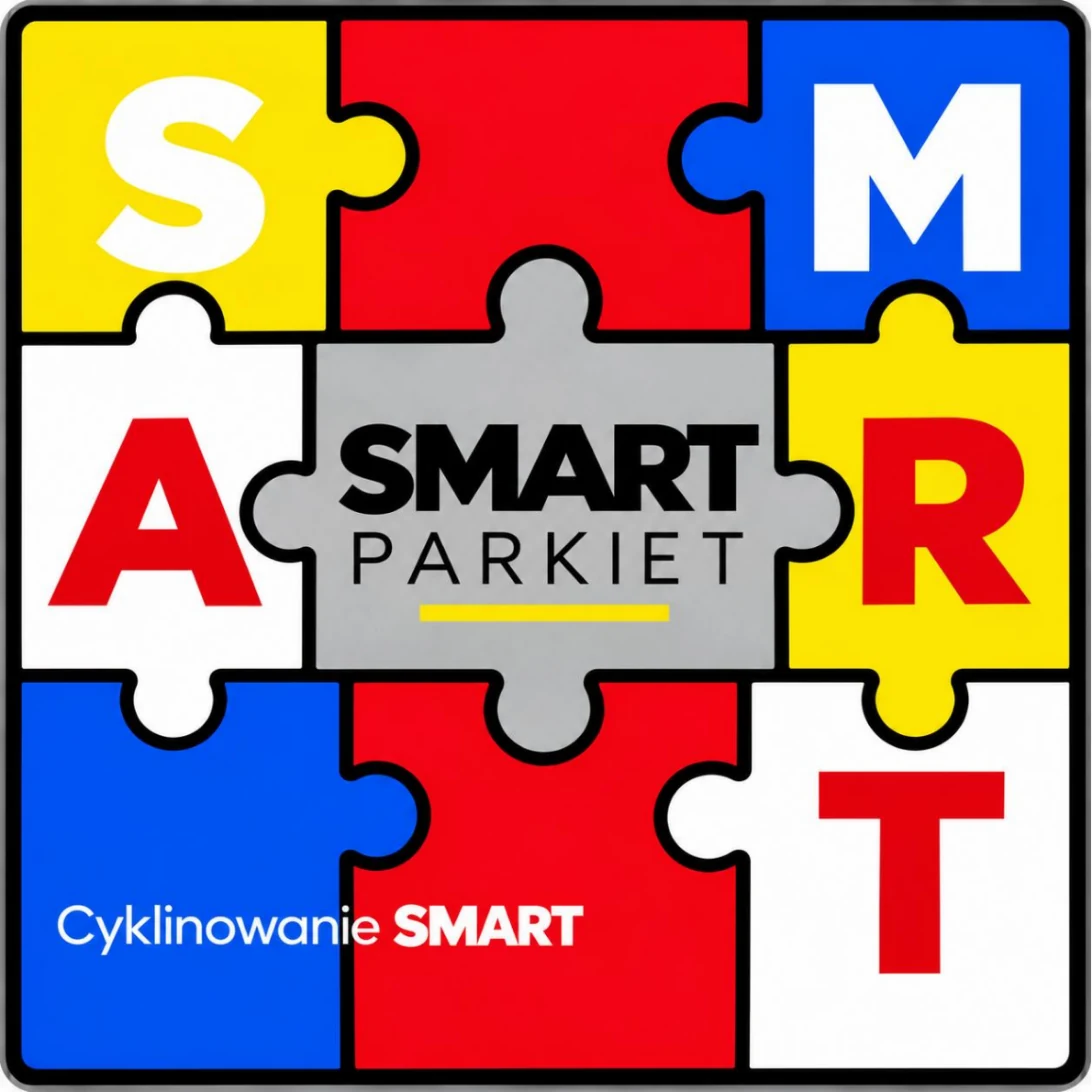
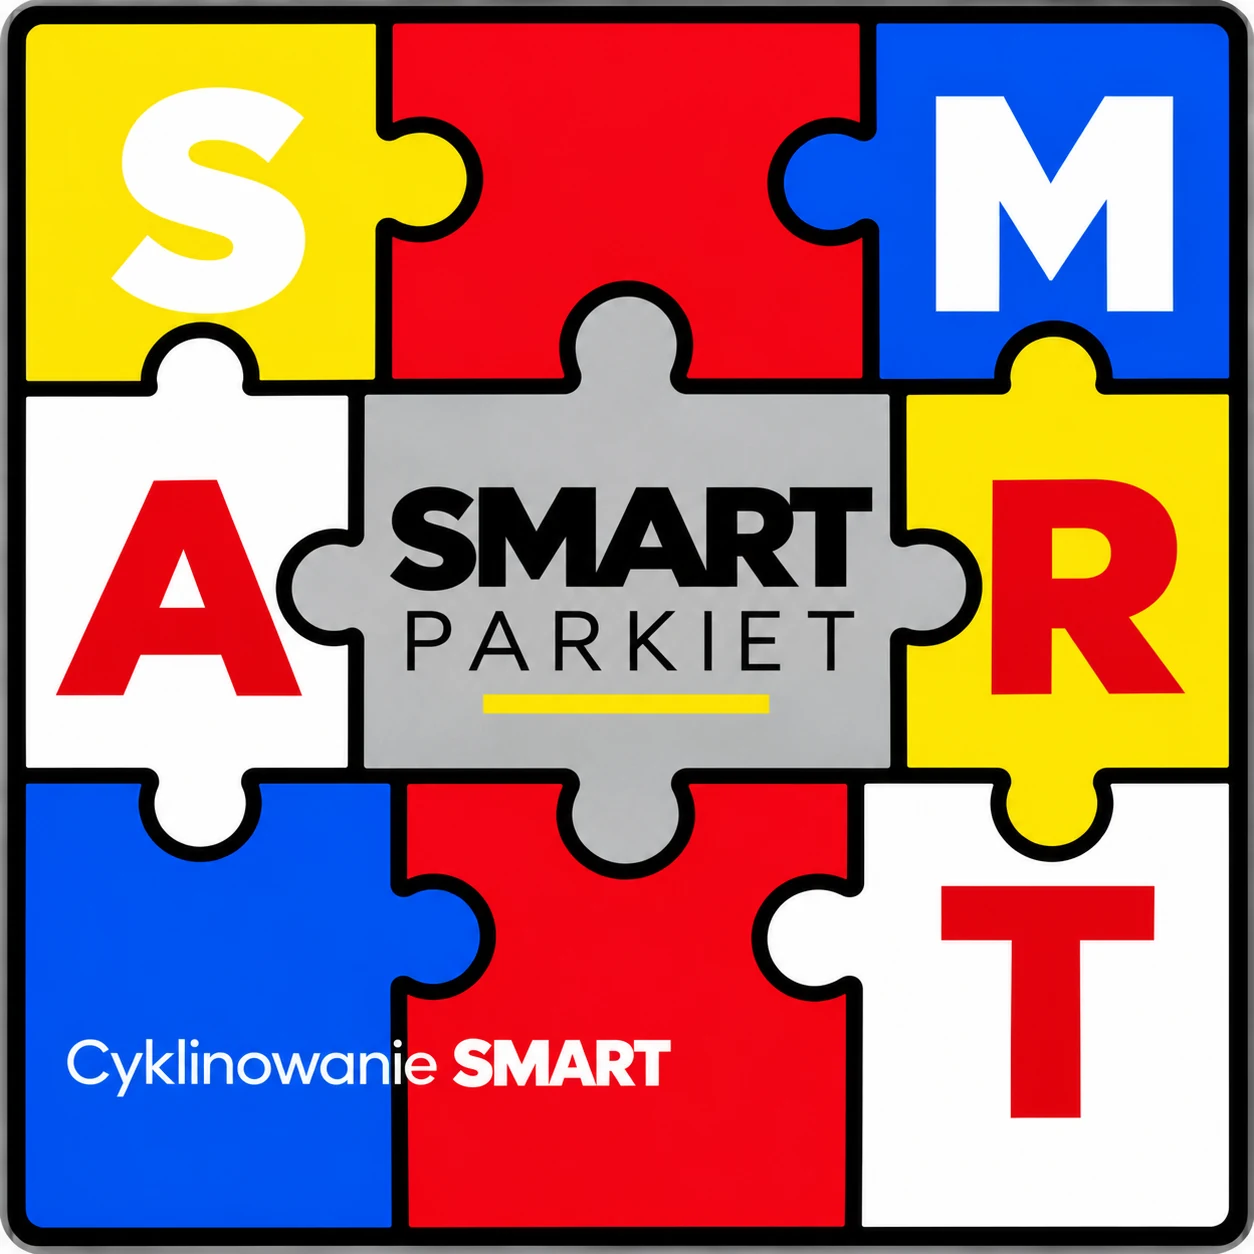
Jasniejsza infografika programow (Artur 18.10 20:18) + oryginaly pomaranczy i puzzli z maila

diff --git a/artykuly.html b/artykuly.html
@@ -954,7 +954,7 @@ figure{margin:0}
 </header>
 <section id="top" class="ar-hero" style="background-image:url(img/blog-hero-szlif.webp);background-position:62% 45%"><div class="wrap"><span class="ar-tag">Blog SMARTPARKIET</span><h1>Cyklinowanie bez tajemnic</h1><p class="ar-meta">Metoda SMART, czas prac, programy i porady przed renowacją parkietu</p></div></section>
 <section class="art-body"><div class="wrap">
-<div class="ar-siatka"><a class="ar-karta" href="smart-platinum-floor-greenstar-ceramicstar.html"><div class="im" style="background-image:url(img/platinum-salon-m.webp)"></div><div class="t"><span class="tg">Programy</span><h2>SMART PLATINUM FLOOR&trade; - najwyższy standard renowacji podłóg drewnianych</h2><p>Dwa lakiery premium Berger-Seidle: GreenStar bez izocyjanianów i CeramicStar z technologią ceramiczną, z użytkowaniem podłogi już po 12 godzinach.</p><span class="cz">Czytaj artykuł &rarr;</span></div></a><a class="ar-karta" href="tradycyjne-parkieciarstwo-w-nowoczesnym-wydaniu.html"><div class="im" style="background-image:url(img/hummel-pokoj.webp)"></div><div class="t"><span class="tg">O nas</span><h2>Tradycyjne parkieciarstwo w nowoczesnym wydaniu</h2><p>Jak SMARTPARKIET przenosi rzemiosło parkieciarskie w XXI wiek: bezpyłowy sprzęt, lakiery wodne, jasne pakiety i ceny, opieka nad klientem od zdjęcia do odbioru.</p><span class="cz">Czytaj artykuł &rarr;</span></div></a><a class="ar-karta" href="czym-jest-cyklinowanie-smart.html"><div class="im" style="background-image:url(img/hummel-logo.webp)"></div><div class="t"><span class="tg">Metoda</span><h2>Czym jest cyklinowanie SMART i czym różni się od tradycyjnego?</h2><p>Cyklinowanie SMART to bezpyłowa renowacja parkietu w 2 dni, z wyceną ze zdjęć i lakierami premium. Porównanie z tradycyjnym cyklinowaniem punkt po punkcie.</p><span class="cz">Czytaj artykuł &rarr;</span></div></a><a class="ar-karta" href="piec-filarow-metody-smart.html"><div class="im im-puzzle" style="background-image:url(img/puzzle-smart-litery.webp)"></div><div class="t"><span class="tg">Metoda</span><h2>Pięć filarów metody SMART: co kryje się za każdą literą</h2><p>S.M.A.R.T. to pięć zasad, na których opiera się cyklinowanie SMART: system pracy, metoda bezpyłowa, asysta klienta, rezultat premium i transparentność.</p><span class="cz">Czytaj artykuł &rarr;</span></div></a><a class="ar-karta" href="cyklinowanie-smart-krok-po-kroku.html"><div class="im" style="background-image:url(img/floor-po.webp)"></div><div class="t"><span class="tg">Poradnik</span><h2>Cyklinowanie SMART krok po kroku: od zdjęcia do odbioru podłogi</h2><p>Sześć etapów cyklinowania SMART: diagnoza, dobór technologii, szlif, kontrola, odpylanie i odbiór. Co dzieje się pierwszego i drugiego dnia prac.</p><span class="cz">Czytaj artykuł &rarr;</span></div></a><a class="ar-karta" href="cyklinowanie-bezpylowe-zero-dust.html"><div class="im" style="background-image:url(img/festool-sysair-hq.webp)"></div><div class="t"><span class="tg">Technologia</span><h2>Cyklinowanie bezpyłowe: czy w mieszkaniu naprawdę nie zostaje pył?</h2><p>Jak działa cyklinowanie bezpyłowe: szlifierki z odciągiem klasy M, oczyszczacze powietrza Festool i zamki pyłowe. Ile pyłu zostaje i jak przygotować mieszkanie.</p><span class="cz">Czytaj artykuł &rarr;</span></div></a><a class="ar-karta" href="ile-trwa-cyklinowanie-parkietu.html"><div class="im" style="background-image:url(img/wilanow2-po-2.webp)"></div><div class="t"><span class="tg">Czas prac</span><h2>Ile trwa cyklinowanie parkietu i kiedy można wrócić do mieszkania?</h2><p>Ile trwa cyklinowanie parkietu: 1 dzień do 20 m², 2 dni przy 50-70 m². Kiedy chodzić po lakierze, kiedy spać w pokoju i kiedy wnieść meble.</p><span class="cz">Czytaj artykuł &rarr;</span></div></a><a class="ar-karta" href="programy-renowacji-smart.html"><div class="im im-info" style="background-image:url(img/programy-smart-infografika.webp)"></div><div class="t"><span class="tg">Programy</span><h2>Programy renowacji SMART: który wybrać dla swojej podłogi?</h2><p>Przegląd programów cyklinowania SMART: PREMIUM FLOOR, nowy PLATINUM FLOOR, EXOTIC, KAMIENICA RESTORE, PUBLIC RESTORE, EXPRESS 48H i nowy SMART+ z malowaniem.</p><span class="cz">Czytaj artykuł &rarr;</span></div></a></div>
+<div class="ar-siatka"><a class="ar-karta" href="smart-platinum-floor-greenstar-ceramicstar.html"><div class="im" style="background-image:url(img/platinum-salon-m.webp)"></div><div class="t"><span class="tg">Programy</span><h2>SMART PLATINUM FLOOR&trade; - najwyższy standard renowacji podłóg drewnianych</h2><p>Dwa lakiery premium Berger-Seidle: GreenStar bez izocyjanianów i CeramicStar z technologią ceramiczną, z użytkowaniem podłogi już po 12 godzinach.</p><span class="cz">Czytaj artykuł &rarr;</span></div></a><a class="ar-karta" href="tradycyjne-parkieciarstwo-w-nowoczesnym-wydaniu.html"><div class="im" style="background-image:url(img/hummel-pokoj.webp)"></div><div class="t"><span class="tg">O nas</span><h2>Tradycyjne parkieciarstwo w nowoczesnym wydaniu</h2><p>Jak SMARTPARKIET przenosi rzemiosło parkieciarskie w XXI wiek: bezpyłowy sprzęt, lakiery wodne, jasne pakiety i ceny, opieka nad klientem od zdjęcia do odbioru.</p><span class="cz">Czytaj artykuł &rarr;</span></div></a><a class="ar-karta" href="czym-jest-cyklinowanie-smart.html"><div class="im" style="background-image:url(img/hummel-logo.webp)"></div><div class="t"><span class="tg">Metoda</span><h2>Czym jest cyklinowanie SMART i czym różni się od tradycyjnego?</h2><p>Cyklinowanie SMART to bezpyłowa renowacja parkietu w 2 dni, z wyceną ze zdjęć i lakierami premium. Porównanie z tradycyjnym cyklinowaniem punkt po punkcie.</p><span class="cz">Czytaj artykuł &rarr;</span></div></a><a class="ar-karta" href="piec-filarow-metody-smart.html"><div class="im im-puzzle" style="background-image:url(img/puzzle-smart-litery.webp?v=2)"></div><div class="t"><span class="tg">Metoda</span><h2>Pięć filarów metody SMART: co kryje się za każdą literą</h2><p>S.M.A.R.T. to pięć zasad, na których opiera się cyklinowanie SMART: system pracy, metoda bezpyłowa, asysta klienta, rezultat premium i transparentność.</p><span class="cz">Czytaj artykuł &rarr;</span></div></a><a class="ar-karta" href="cyklinowanie-smart-krok-po-kroku.html"><div class="im" style="background-image:url(img/floor-po.webp)"></div><div class="t"><span class="tg">Poradnik</span><h2>Cyklinowanie SMART krok po kroku: od zdjęcia do odbioru podłogi</h2><p>Sześć etapów cyklinowania SMART: diagnoza, dobór technologii, szlif, kontrola, odpylanie i odbiór. Co dzieje się pierwszego i drugiego dnia prac.</p><span class="cz">Czytaj artykuł &rarr;</span></div></a><a class="ar-karta" href="cyklinowanie-bezpylowe-zero-dust.html"><div class="im" style="background-image:url(img/festool-sysair-hq.webp)"></div><div class="t"><span class="tg">Technologia</span><h2>Cyklinowanie bezpyłowe: czy w mieszkaniu naprawdę nie zostaje pył?</h2><p>Jak działa cyklinowanie bezpyłowe: szlifierki z odciągiem klasy M, oczyszczacze powietrza Festool i zamki pyłowe. Ile pyłu zostaje i jak przygotować mieszkanie.</p><span class="cz">Czytaj artykuł &rarr;</span></div></a><a class="ar-karta" href="ile-trwa-cyklinowanie-parkietu.html"><div class="im" style="background-image:url(img/wilanow2-po-2.webp)"></div><div class="t"><span class="tg">Czas prac</span><h2>Ile trwa cyklinowanie parkietu i kiedy można wrócić do mieszkania?</h2><p>Ile trwa cyklinowanie parkietu: 1 dzień do 20 m², 2 dni przy 50-70 m². Kiedy chodzić po lakierze, kiedy spać w pokoju i kiedy wnieść meble.</p><span class="cz">Czytaj artykuł &rarr;</span></div></a><a class="ar-karta" href="programy-renowacji-smart.html"><div class="im im-info" style="background-image:url(img/programy-smart-infografika.webp?v=2)"></div><div class="t"><span class="tg">Programy</span><h2>Programy renowacji SMART: który wybrać dla swojej podłogi?</h2><p>Przegląd programów cyklinowania SMART: PREMIUM FLOOR, nowy PLATINUM FLOOR, EXOTIC, KAMIENICA RESTORE, PUBLIC RESTORE, EXPRESS 48H i nowy SMART+ z malowaniem.</p><span class="cz">Czytaj artykuł &rarr;</span></div></a></div>
 <p class="ar-sekcja">Poradniki</p>
 <div class="ar-siatka"><a class="ar-karta" href="co-najpierw-cyklinowanie-podlogi-czy-malowanie-scian.html"><div class="im" style="background-image:url(img/malowanie-sciany.webp)"></div><div class="t"><span class="tg">Kolejność prac</span><h3>Co najpierw: cyklinowanie podłogi czy malowanie ścian?</h3><p>Najpierw podłoga, ściany na końcu. Po ilu dniach malarz może wejść na świeży lakier.</p><span class="cz">Czytaj artykuł &rarr;</span></div></a><a class="ar-karta" href="jaki-lakier-do-parkietu-po-cyklinowaniu.html"><div class="im" style="background-image:url(img/lakier-walek.webp)"></div><div class="t"><span class="tg">Wykończenie</span><h3>Jaki lakier do parkietu po cyklinowaniu?</h3><p>Lakier wodny, rozpuszczalnikowy i olej twardy w jednej tabeli.</p><span class="cz">Czytaj artykuł &rarr;</span></div></a><a class="ar-karta" href="czy-subit-pod-parkietem-jest-szkodliwy.html"><div class="im" style="background-image:url(img/subit-parkiet.webp)"></div><div class="t"><span class="tg">Stare podłogi</span><h3>Czy subit pod parkietem jest szkodliwy?</h3><p>Czarny lepik z czasów PRL. Kiedy go nie ruszamy i co to zmienia w wycenie.</p><span class="cz">Czytaj artykuł &rarr;</span></div></a><a class="ar-karta" href="naprawa-punktowa-parkietu-kiedy-jest-mozliwa.html"><div class="im" style="background-image:url(img/plama-pod-dywanem.webp)"></div><div class="t"><span class="tg">Naprawy</span><h3>Naprawa punktowa parkietu - kiedy jest możliwa?</h3><p>Decyduje rodzaj wykończenia, nie wielkość uszkodzenia.</p><span class="cz">Czytaj artykuł &rarr;</span></div></a></div>
 </div></section>
@@ -1888,6 +1888,6 @@ html body footer.site .cols>div{min-width:0!important}
 }
 </style>
 <style>/* Artur 18.10 20:04: infografika programow na karcie w Blogu */
-html body .ar-karta .im.im-info{background-size:contain!important;background-color:#1C1815!important;background-position:center!important}
+html body .ar-karta .im.im-info{background-size:contain!important;background-color:#F6EFE7!important;background-position:center!important}
 </style>
 

diff --git a/piec-filarow-metody-smart.html b/piec-filarow-metody-smart.html
@@ -952,10 +952,10 @@ figure{margin:0}
     <a class="btn btn-amber tel" href="tel:+48602242815">602 242 815</a>
   </div>
 </header>
-<section id="top" class="ar-hero ar-puzzle"><div class="wrap"><img class="hero-puzzle" src="img/puzzle-smart-litery.webp" alt="Puzzle SMART PARKIET z literami S, M, A, R, T - pięć filarów metody Cyklinowanie SMART" width="1092" height="1092"><span class="ar-tag">Metoda</span><h1>Pięć filarów metody SMART: co kryje się za każdą literą</h1><p class="ar-meta">Blog SMARTPARKIET &middot; czyta się około 4 minut</p></div></section>
+<section id="top" class="ar-hero ar-puzzle"><div class="wrap"><img class="hero-puzzle" src="img/puzzle-smart-litery.webp?v=2" alt="Puzzle SMART PARKIET z literami S, M, A, R, T - pięć filarów metody Cyklinowanie SMART" width="1254" height="1254"><span class="ar-tag">Metoda</span><h1>Pięć filarów metody SMART: co kryje się za każdą literą</h1><p class="ar-meta">Blog SMARTPARKIET &middot; czyta się około 4 minut</p></div></section>
 <section class="art-body"><div class="wrap art">
 <p class="ar-lead">SMART to nie tylko nazwa. Każda litera to zasada, którą da się sprawdzić na realizacji: od tego, jak szlifujemy, po to, jak podajemy cenę.</p>
-<figure class="pf-pom"><img src="img/pomarancza-smart.webp?v=3" alt="Pomarańcza z literami SMART w pięciu cząstkach i znak S z logo SMARTPARKIET" width="1568" height="753" loading="lazy"><figcaption>Pięć cząstek, pięć zasad: System, Metoda, Asysta, Rezultat, Transparentność. Razem tworzą jedno S.</figcaption></figure>
+<figure class="pf-pom"><img src="img/pomarancza-smart.webp?v=4" alt="Pomarańcza z literami SMART w pięciu cząstkach i znak S z logo SMARTPARKIET" width="1802" height="873" loading="lazy"><figcaption>Pięć cząstek, pięć zasad: System, Metoda, Asysta, Rezultat, Transparentność. Razem tworzą jedno S.</figcaption></figure>
 <div class="ar-skrot"><b>Najważniejsze w skrócie</b><ul><li>S - system pracy: ta sama procedura w każdej z czterech ekip</li><li>M - metoda bezpyłowa z dodatkowym odpylaniem Festool</li><li>A - asysta klienta: meble, przygotowanie, kontakt</li><li>R i T - efekt premium i cena bez niespodzianek</li></ul></div>
 
 <h2>S - System pracy</h2>

diff --git a/programy-renowacji-smart.html b/programy-renowacji-smart.html
@@ -954,7 +954,7 @@ figure{margin:0}
 </header>
 <section id="top" class="ar-hero ar-bez"><div class="wrap"><span class="ar-tag">Programy</span><h1>Programy renowacji SMART: który wybrać dla swojej podłogi?</h1><p class="ar-meta">Blog SMARTPARKIET &middot; czyta się około 5 minut</p></div></section>
 <section class="art-body"><div class="wrap art">
-<figure class="pg-info"><img src="img/programy-smart-infografika.webp" alt="Programy renowacji SMART - który wybrać dla swojej podłogi" loading="lazy"></figure>
+<figure class="pg-info"><img src="img/programy-smart-infografika.webp?v=2" alt="Programy renowacji SMART - który wybrać dla swojej podłogi" loading="lazy"></figure>
 <p class="ar-lead">Każda podłoga jest inna, dlatego zamiast jednej usługi mamy kilka programów. Różnią się technologią, czasem i zakresem prac, a wspólny jest standard SMART ZERO DUST&trade;.</p>
 <div class="ar-skrot"><b>Najważniejsze w skrócie</b><ul><li>SMART PREMIUM FLOOR™ - pełna renowacja, trzy warstwy lakieru</li><li>NOWOŚĆ: SMART PLATINUM FLOOR™ - lakiery GreenStar® i CeramicStar®</li><li>NOWOŚĆ: CYKLINOWANIE SMART+™ - podłoga razem z malowaniem</li><li>Bezpyłowo w każdym programie</li></ul></div>
 
